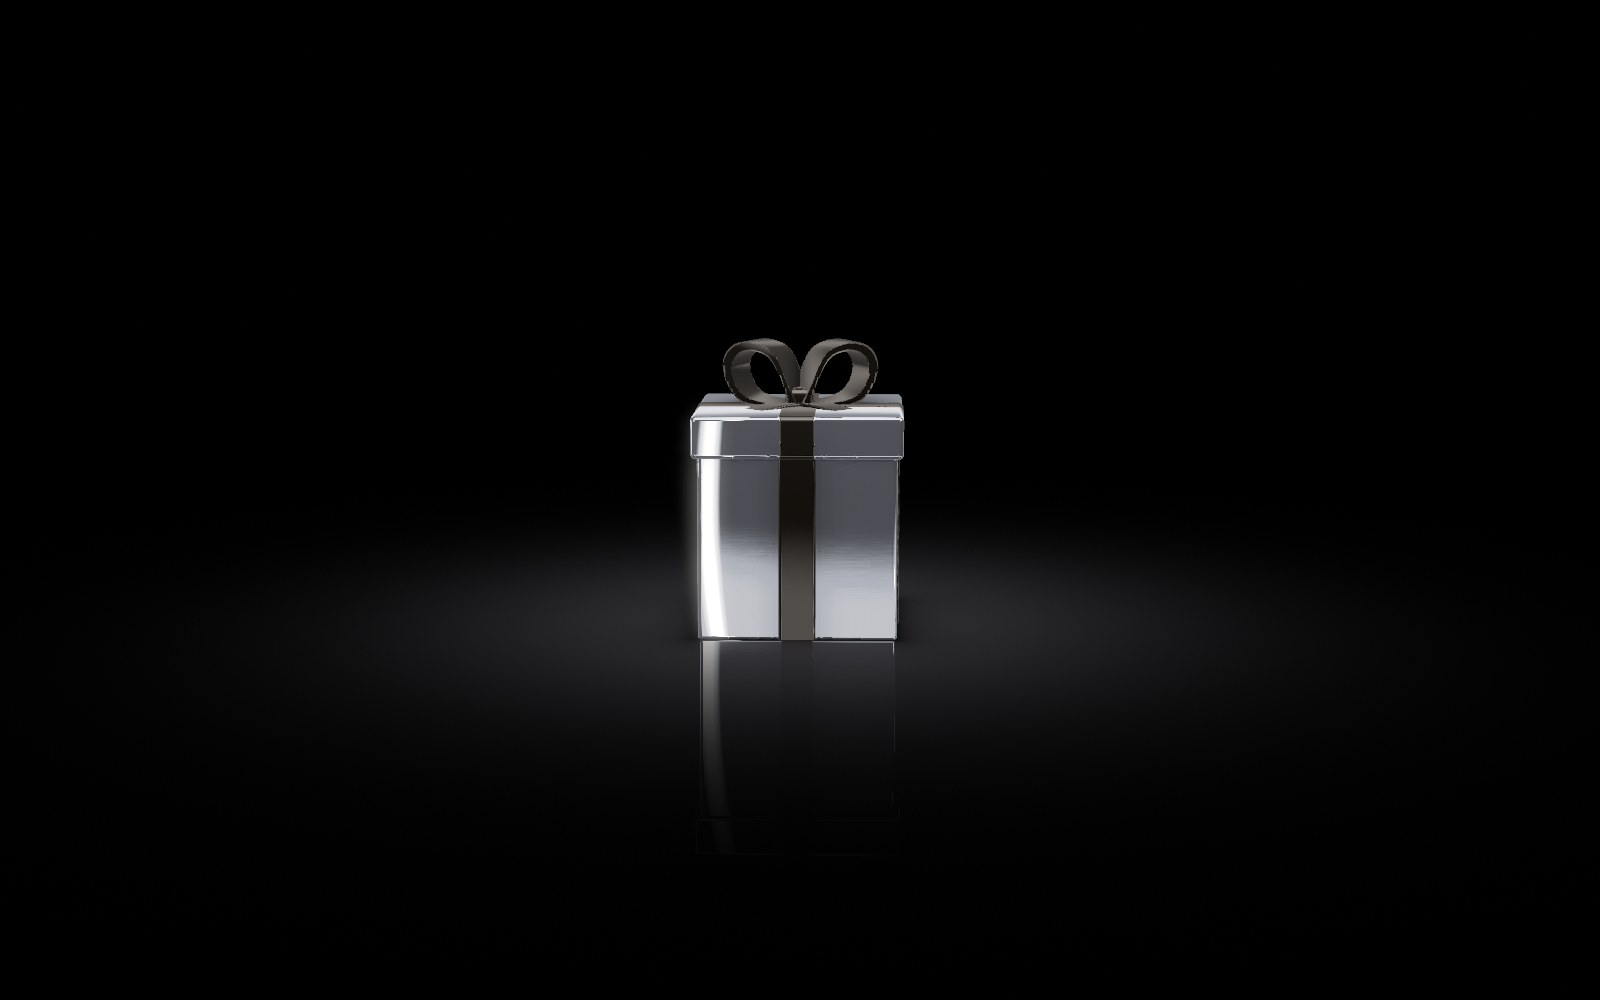
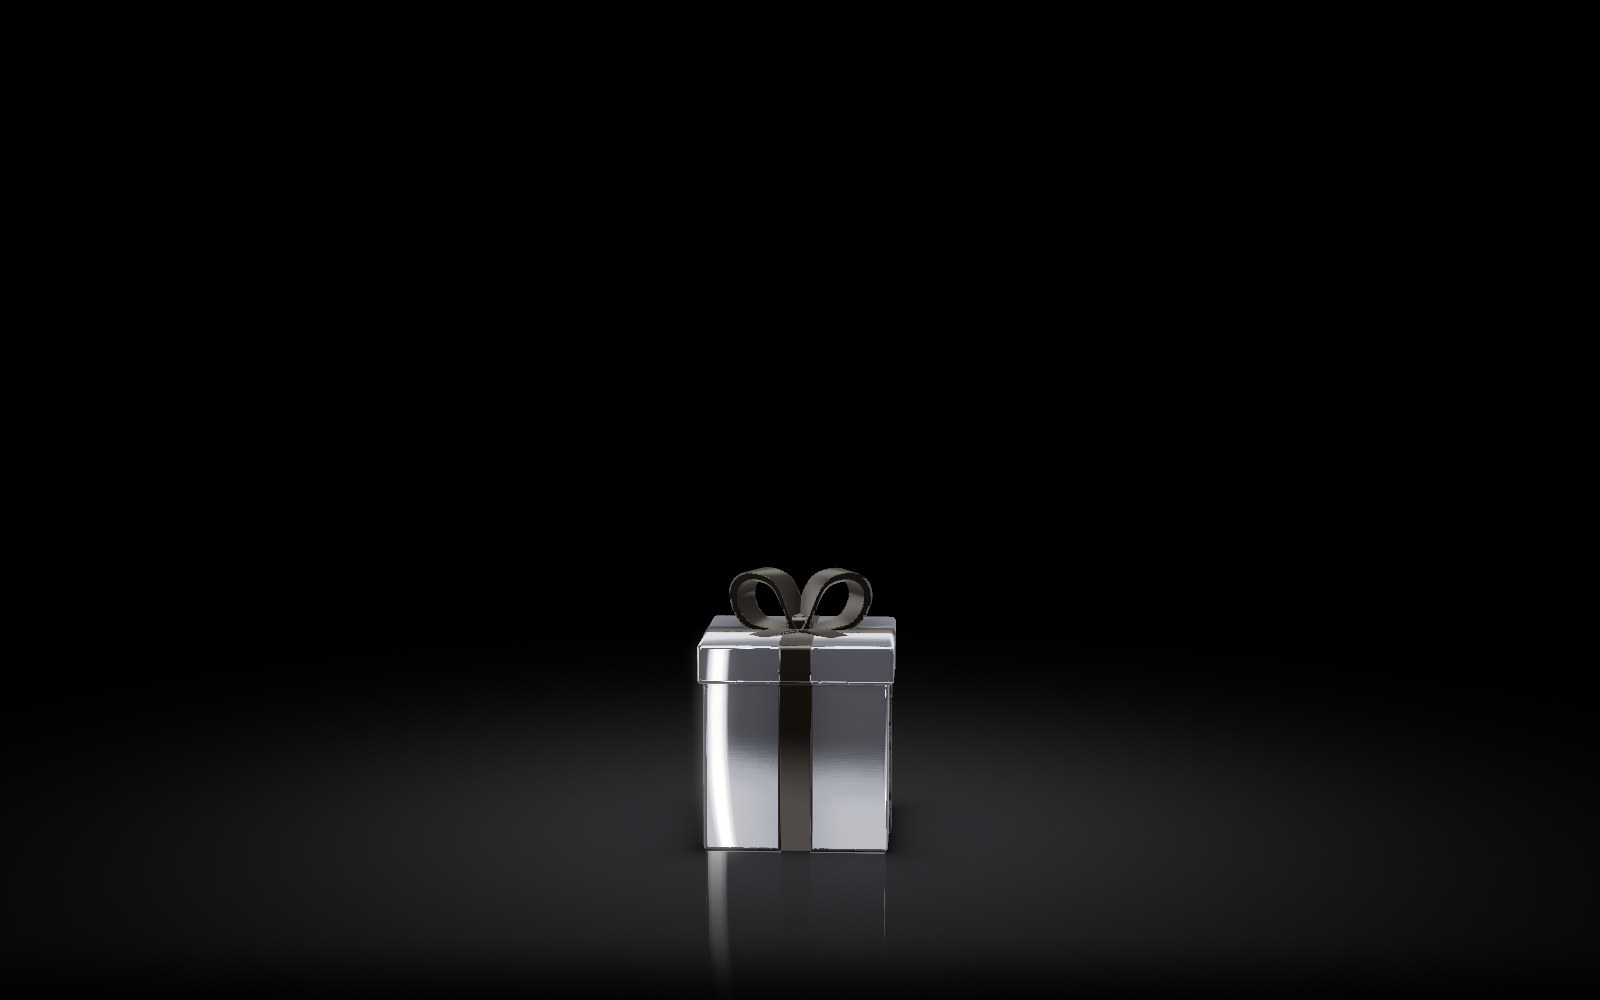
The welcome's gifts at the size their words tell under one camera, each fading once opened so its demo takes the stage (#3960)

Changed region(s): [[0.1562, 0.341, 0.8438, 0.992]]

diff --git a/crates/oni-app/src/stage/direction.rs b/crates/oni-app/src/stage/direction.rs
@@ -1,7 +1,7 @@
 //! The welcome's direction: one gift on its screen, still and wrapped, then coming undone where it stands,
 //! under a camera that barely moves. One function of the cue, so a check steps the film frame by frame.
 
-use super::ease::{glide, mix, span};
+use super::ease::{glide, span};
 use super::unwrap::{self, opened, untied};
 use super::{Frame, Gift};
 
@@ -39,18 +39,26 @@ pub(super) struct Stand {
     pub foil: f32,
 }
 
-/// The four gifts: a tall silver one, a low wide copper one, the huge gold one, the holographic mystery.
+/// The four gifts at the scale their words tell: two small ones, a tall silver and a low wide copper, the huge
+/// gold one that fills the picture's height, the holographic mystery between.
 pub(super) const STAND: [Stand; 4] = [
-    Stand { x: 0.0, z: 0.0, size: 0.78, tall: 0.98, turn: 0.38, foil: 0.0 },
-    Stand { x: 0.0, z: 0.0, size: 0.95, tall: 0.5, turn: -0.3, foil: 1.0 },
-    Stand { x: 0.0, z: 0.0, size: 2.1, tall: 0.72, turn: 0.34, foil: 2.0 },
-    Stand { x: 0.0, z: 0.0, size: 0.95, tall: 0.9, turn: -0.42, foil: 3.0 },
+    Stand { x: 0.0, z: 0.0, size: 0.62, tall: 0.98, turn: 0.38, foil: 0.0 },
+    Stand { x: 0.0, z: 0.0, size: 0.78, tall: 0.5, turn: -0.3, foil: 1.0 },
+    Stand { x: 0.0, z: 0.0, size: 2.05, tall: 0.72, turn: 0.34, foil: 2.0 },
+    Stand { x: 0.0, z: 0.0, size: 1.15, tall: 0.9, turn: -0.42, foil: 3.0 },
 ];
 /// The lid's half-height, in half-widths, as the shader's.
 pub(super) const LID: f32 = 0.2;
-/// How far the camera stands, in the gift's heights, and how much of the picture's height the gift takes: the
-/// huge one more than the others.
-const FAR: [f32; 4] = [8.4, 8.4, 6.4, 8.0];
+/// One camera for every gift, on one floor, so a difference of size reads as one: where it stands, where it looks.
+const EYE: [f32; 3] = [-5.2, 4.0, 15.2];
+const AIM: [f32; 3] = [0.0, 2.35, 0.0];
+/// Once its words come, a gift fades away in this many seconds and its demo takes the stage.
+const FADE: f32 = 0.6;
+
+/// How much of the stage's light a gift opened `since` seconds ago keeps: whole until its words come, then none.
+pub fn kept(gift: usize, since: Option<f32>) -> f32 {
+    since.map_or(1.0, |t| 1.0 - glide(span(t, unwrap::title(gift), unwrap::title(gift) + FADE)))
+}
 
 fn gift(i: usize, cue: &Cue) -> Gift {
     let s = STAND[i];
@@ -72,25 +80,18 @@ fn gift(i: usize, cue: &Cue) -> Gift {
     Gift { place: [s.x, 0.0, s.z, s.size], pose: [turn, lift, s.foil, 1.0], lid: parts.lid, tie, bow: [0.0; 4], shape: [s.tall, parts.open, parts.seam, 0.0] }
 }
 
-/// The picture at `cue`: the screen's gift alone in the middle, a little from above; the mystery, opened flat, from
-/// higher still.
+/// The picture at `cue`: the screen's gift alone in the middle, the same camera for each, fading once opened.
 pub fn frame(cue: &Cue) -> Frame {
     let Some(i) = cue.gift else {
         return Frame { view: [0.0, 0.0, cue.clock, 0.0], show: [0.0, 0.0, 0.0, cue.foot], ..Frame::default() };
     };
     let s = STAND[i];
-    let height = 2.0 * (s.tall + LID) * s.size + 0.5 * s.size;
-    let open = cue.since.map_or(0.0, |t| glide(span(t, unwrap::pop(i), unwrap::pop(i) + 1.4)));
-    let flat = if i == 3 { open } else { 0.0 };
-    let away = FAR[i] * height * mix(1.0, 1.35, flat);
-    let round = -0.35 + 0.05 * (cue.clock * 0.11).sin();
-    let rise = mix(0.45, 0.25, flat);
-    let eye = [s.x + away * round.sin(), mix(0.75, 1.5, flat) * height + 0.12 * away, s.z + away * round.cos()];
+    let drift = 0.25 * (cue.clock * 0.11).sin();
     let gifts = std::array::from_fn(|k| if k == i { gift(i, cue) } else { Gift::default() });
     Frame {
-        view: [0.0, 0.0, cue.clock, cue.shown],
-        eye: [eye[0], eye[1], eye[2], 2.3],
-        aim: [s.x, rise * height, s.z, 3.0 * s.size],
+        view: [0.0, 0.0, cue.clock, cue.shown * kept(i, cue.since)],
+        eye: [EYE[0] + drift, EYE[1], EYE[2], 2.3],
+        aim: [AIM[0], AIM[1], AIM[2], 3.0 * s.size.max(1.0)],
         light: [1.0, 1.0, 0.9, 1.0],
         lens: [0.0, 0.0, 0.0, 0.0],
         show: [0.0, 0.0, 0.0, cue.foot],

diff --git a/crates/oni-app/src/stage/tests.rs b/crates/oni-app/src/stage/tests.rs
@@ -16,15 +16,28 @@ fn a_screen_shows_its_gift_alone_and_tied_until_it_is_opened() {
 }
 
 #[test]
-fn the_gift_stands_in_the_middle_of_the_picture() {
-    for gift in 0..4 {
-        let shot = frame(&Cue::at(Some(gift), None));
-        let [x, y, w, h] = gift_spot(&shot, 1.6).expect("a gift on its screen");
-        let middle = (x + w / 2.0, y + h / 2.0);
-        assert!((middle.0 - 0.5).abs() < 0.08 && (middle.1 - 0.5).abs() < 0.2, "gift {gift} about the middle, {middle:?}");
-        assert!(h > 0.2 && h < 0.75, "gift {gift} neither lost nor cut, {h}");
-    }
-    assert!(gift_spot(&frame(&Cue::at(None, None)), 1.6).is_none(), "twin: no place on the message's screen");
+fn each_gift_stands_in_the_middle_at_the_size_its_words_tell() {
+    let height = |gift| {
+        let [x, y, w, h] = gift_spot(&frame(&Cue::at(Some(gift), None)), 1.6).expect("a gift on its screen");
+        assert!((x + w / 2.0 - 0.5).abs() < 0.08 && y >= 0.0 && y + h <= 0.95, "gift {gift} about the middle, whole: {x} {y} {w} {h}");
+        h
+    };
+    let sizes = [height(0), height(1), height(2), height(3)];
+    assert!(sizes[2] > 0.7, "the huge gift fills the picture's height: {sizes:?}");
+    assert!(sizes[0] < 0.35 && sizes[1] < 0.35, "the small ones small: {sizes:?}");
+    // Twin: the mystery between them and the huge one.
+    assert!(sizes[3] > sizes[0].max(sizes[1]) && sizes[3] < sizes[2] * 0.75, "the mystery between: {sizes:?}");
+    assert!(gift_spot(&frame(&Cue::at(None, None)), 1.6).is_none(), "no place on the message's screen");
+}
+
+#[test]
+fn an_opened_gift_fades_once_its_words_come() {
+    use super::direction::kept;
+    assert_eq!(kept(2, None), 1.0, "wrapped, whole");
+    assert_eq!(kept(2, Some(unwrap::title(2) - 0.1)), 1.0, "opening, whole");
+    // Twin: once its words have come, gone.
+    assert_eq!(kept(2, Some(unwrap::title(2) + 1.0)), 0.0);
+    assert_eq!(frame(&Cue::at(Some(2), Some(unwrap::length(2) + 1.0))).view[3], 0.0);
 }
 
 #[test]

diff --git a/crates/oni-app/tests/window/welcome_reel.rs b/crates/oni-app/tests/window/welcome_reel.rs
@@ -201,6 +201,7 @@ pub(crate) fn the_welcome_is_unwrapped_screen_by_screen() {
         let words = unwrap::title(gift);
         reel.play((unwrap::pop(gift) / 0.2).round() * 0.2, 0.2);
         reel.keep();
+        assert!(light(&reel, reel.gift()) > 3.0, "gift {gift} drawn where it stands");
         reel.play(((words + 1.2 - unwrap::pop(gift)) / 0.2).round() * 0.2, 0.2);
         assert!(help.get_may_go_on(), "gift {gift}: its words come, the way on opens");
         if gift == 3 {
@@ -211,7 +212,6 @@ pub(crate) fn the_welcome_is_unwrapped_screen_by_screen() {
         }
         reel.play(2.4, 0.2);
         reel.keep();
-        assert!(light(&reel, reel.gift()) > 3.0, "gift {gift} drawn where it stands");
         rig.key(&slint::SharedString::from(slint::platform::Key::DownArrow));
         reel.play(0.8, 0.2);
         assert_eq!(help.get_welcome_page(), page + 1, "on past gift {gift} once opened");

diff --git a/crates/oni-app/src/app/help/welcome.rs b/crates/oni-app/src/app/help/welcome.rs
@@ -353,7 +353,7 @@ impl Ctl {
         help.set_welcome_page(play.page);
         help.set_welcome_unwrapped(i32::from(play.bits()));
         help.set_scroll(slot(play.from) + (slot(play.page) - slot(play.from)) * play.travelled(now, still));
-        help.set_stage_shown(cue.shown);
+        help.set_stage_shown(cue.shown * cue.gift.map_or(0.0, |i| direction::kept(i, cue.since)));
         help.set_gift_shown(cue.gift.map_or(-1, |i| i as i32));
         let since = gift_of(play.page).and_then(|i| play.opened[i]).map_or(-1.0, |o| (now - o).max(0.0));
         help.set_opened_time(since);
